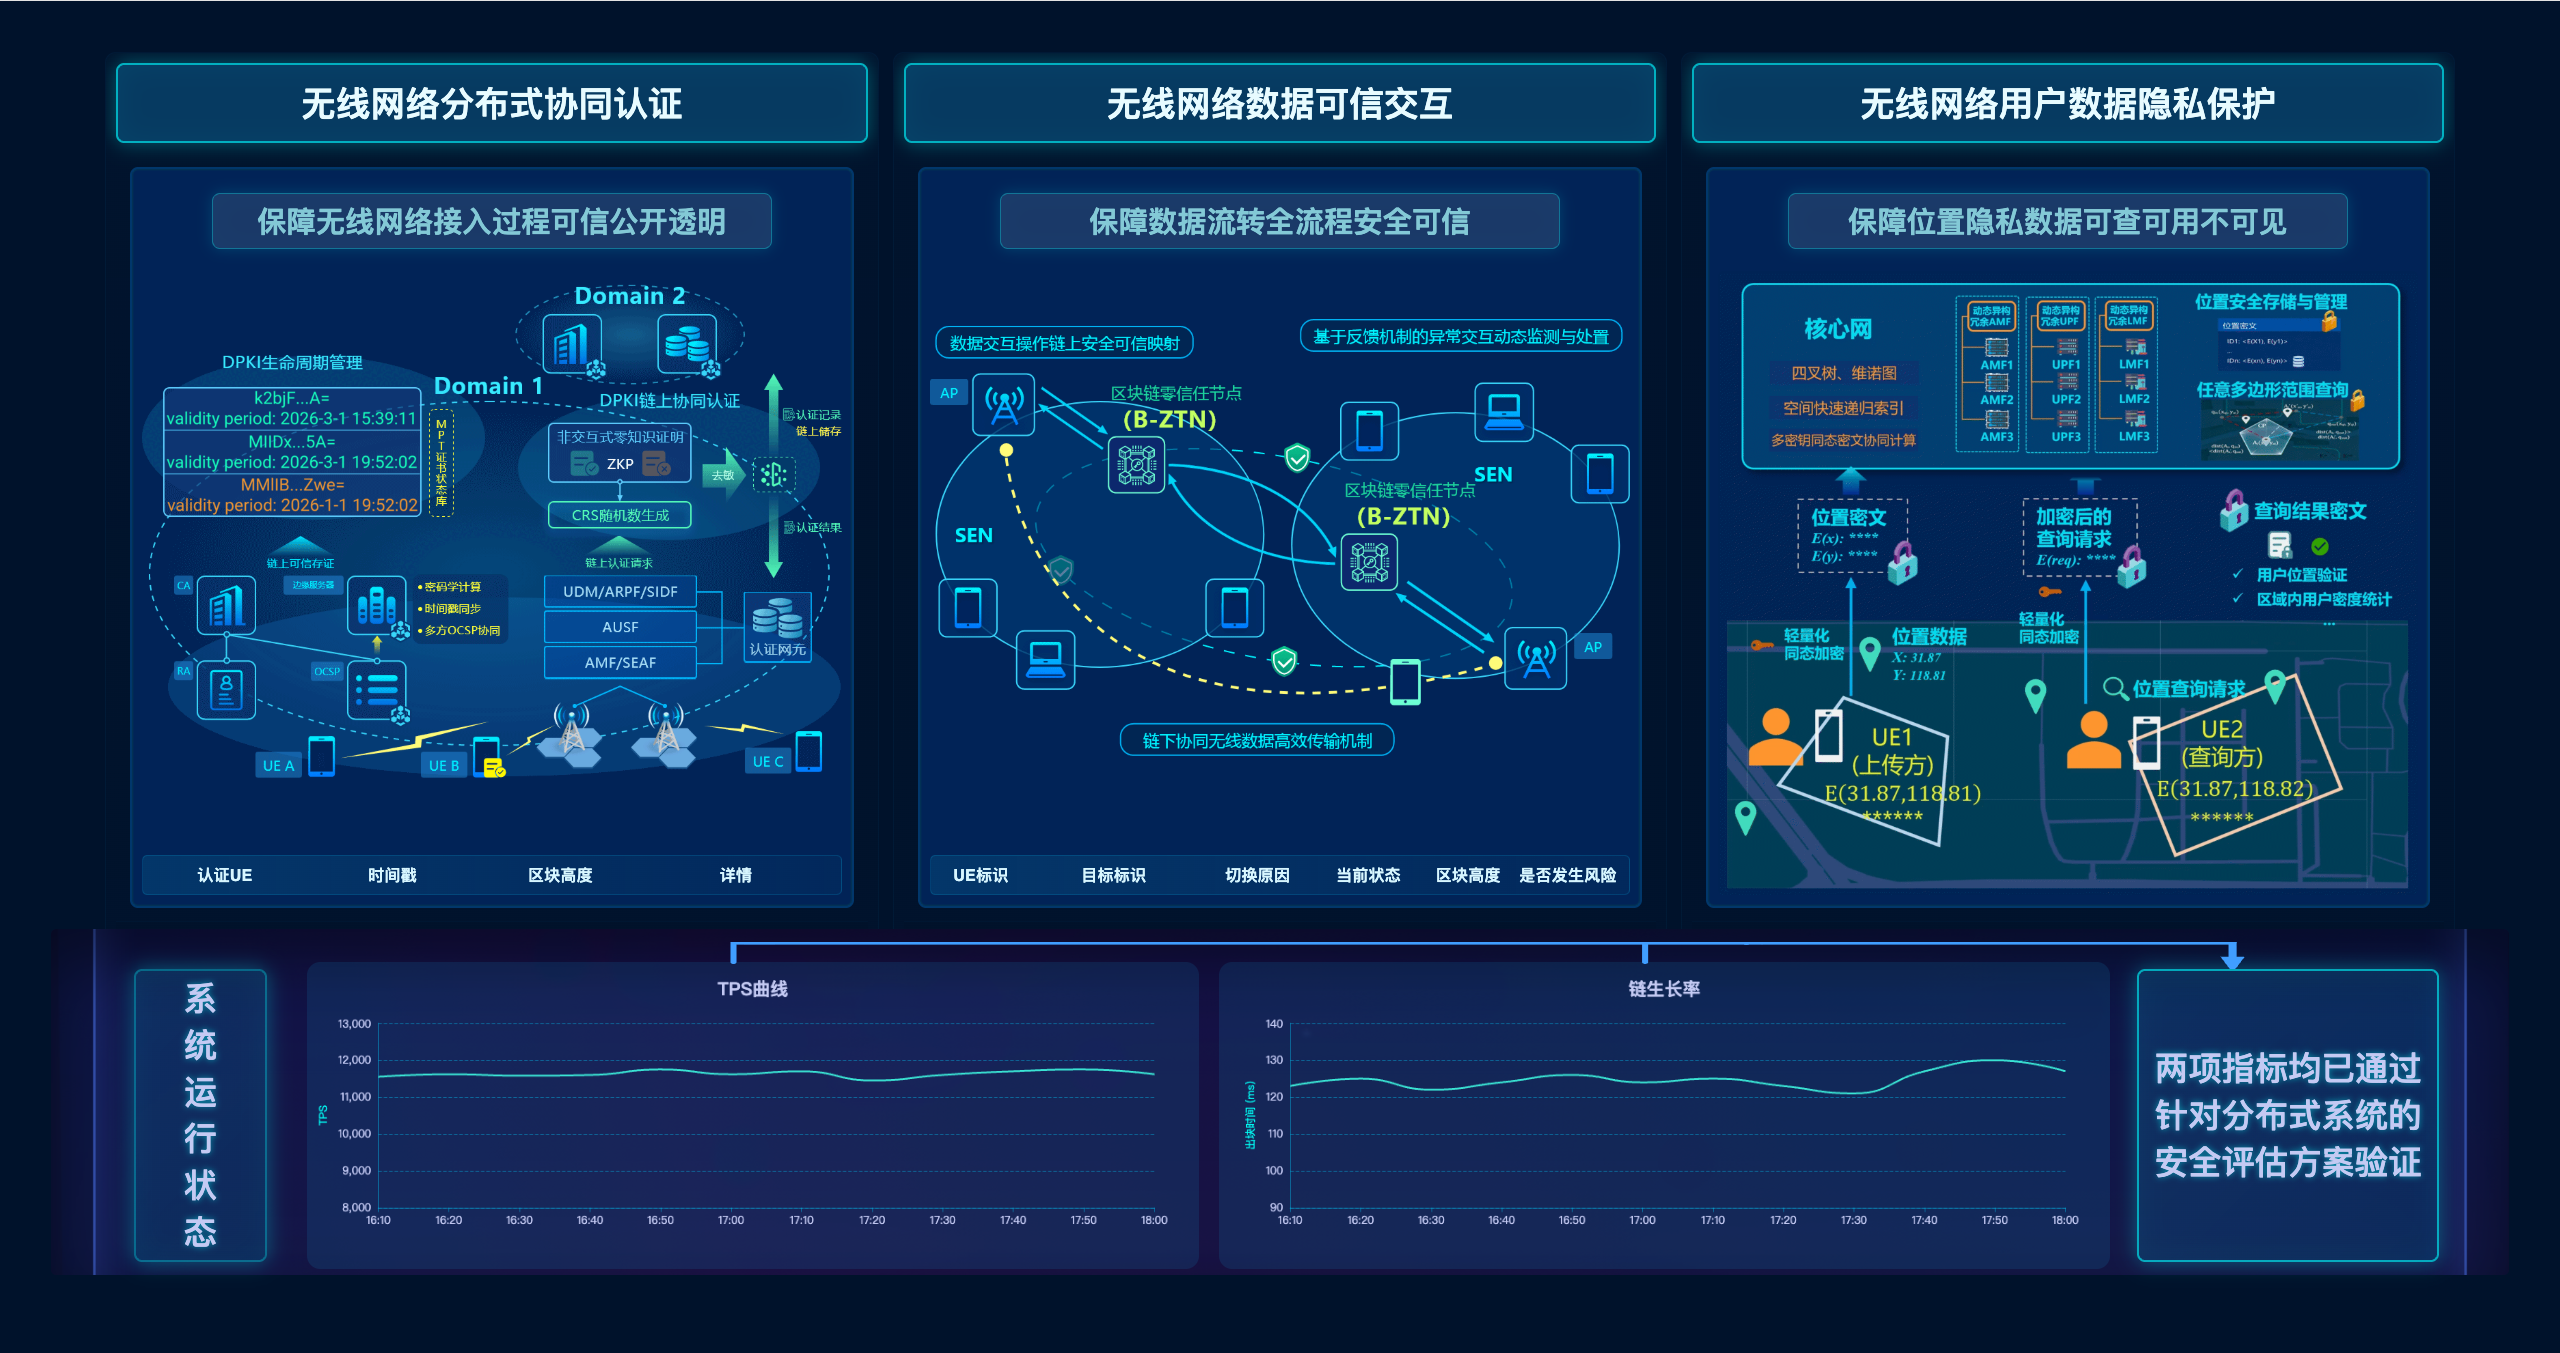
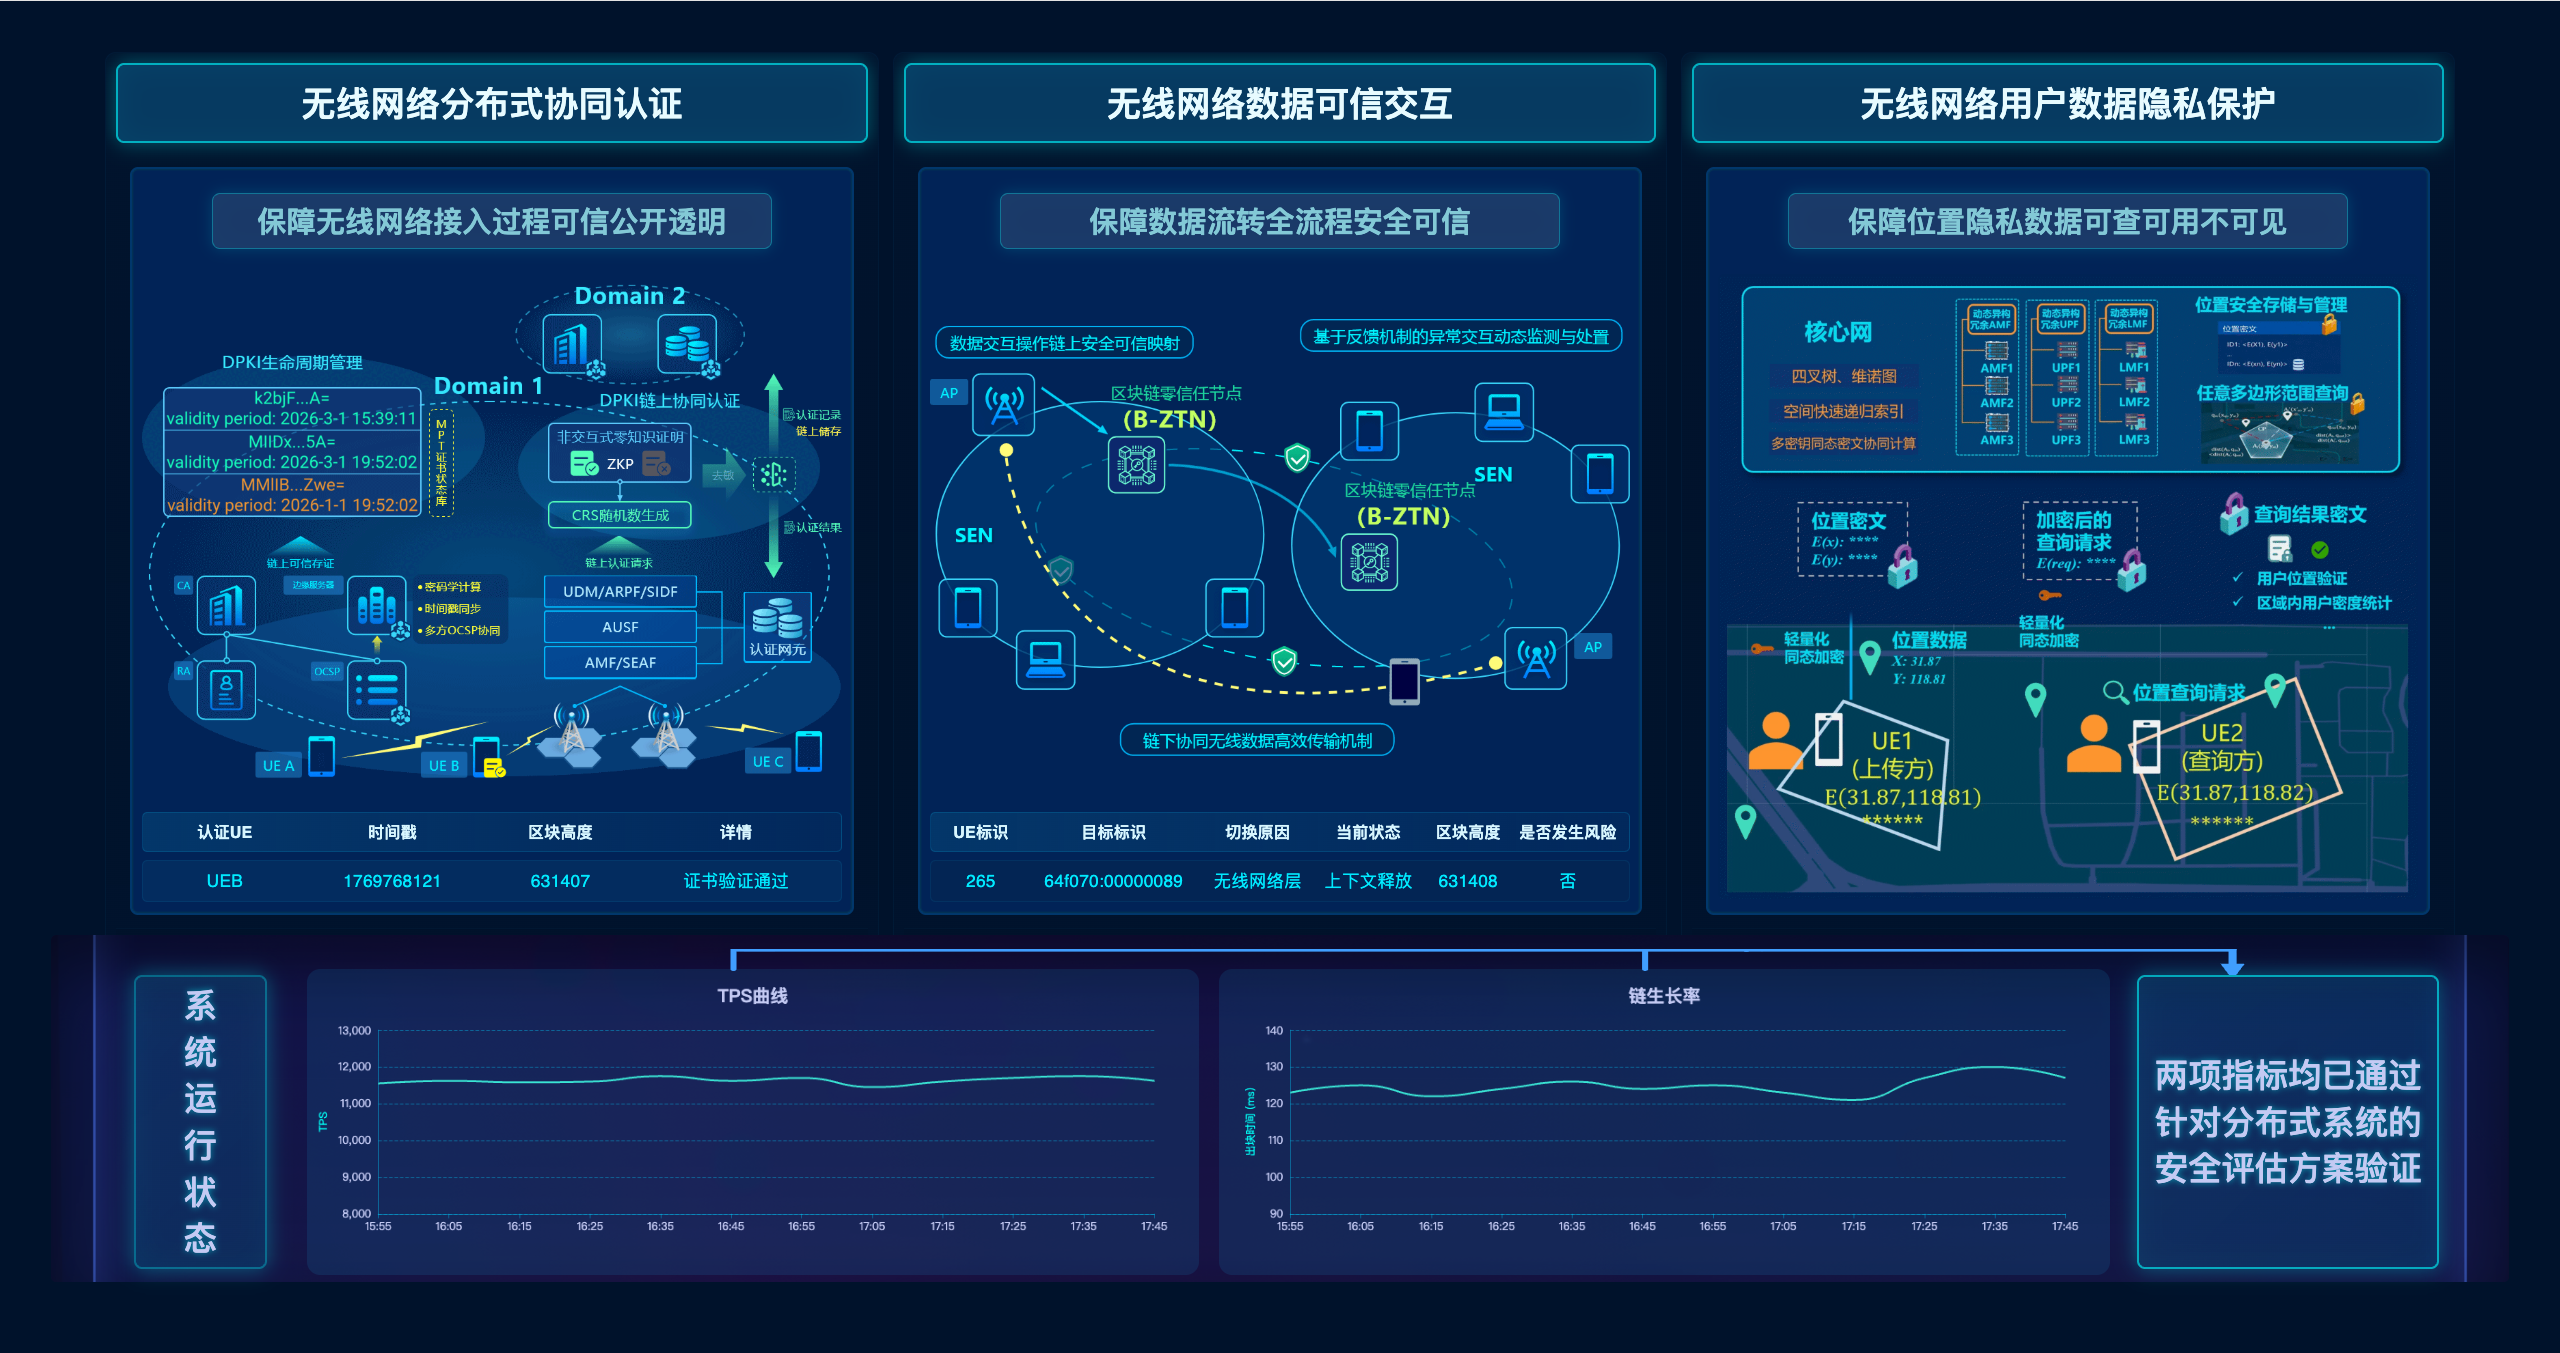
readme

diff --git a/README.md b/README.md
@@ -2,7 +2,7 @@
 
 **简介**
 
-北邮前端，根据之前的北邮大屏复现得来。最新状态（每次提交更新最新状态，图片在pic/下）：
+最新状态：
 
 ![](pic/dashboard.png)
 
@@ -10,7 +10,7 @@
 
 ## 🔧 启动方式
 
-### 1) 可选：启动本地后端（用于左/中表格实时数据）
+### 1) 可选：启动本地后端二进制
 
 ```bash
 # 在项目根运行
